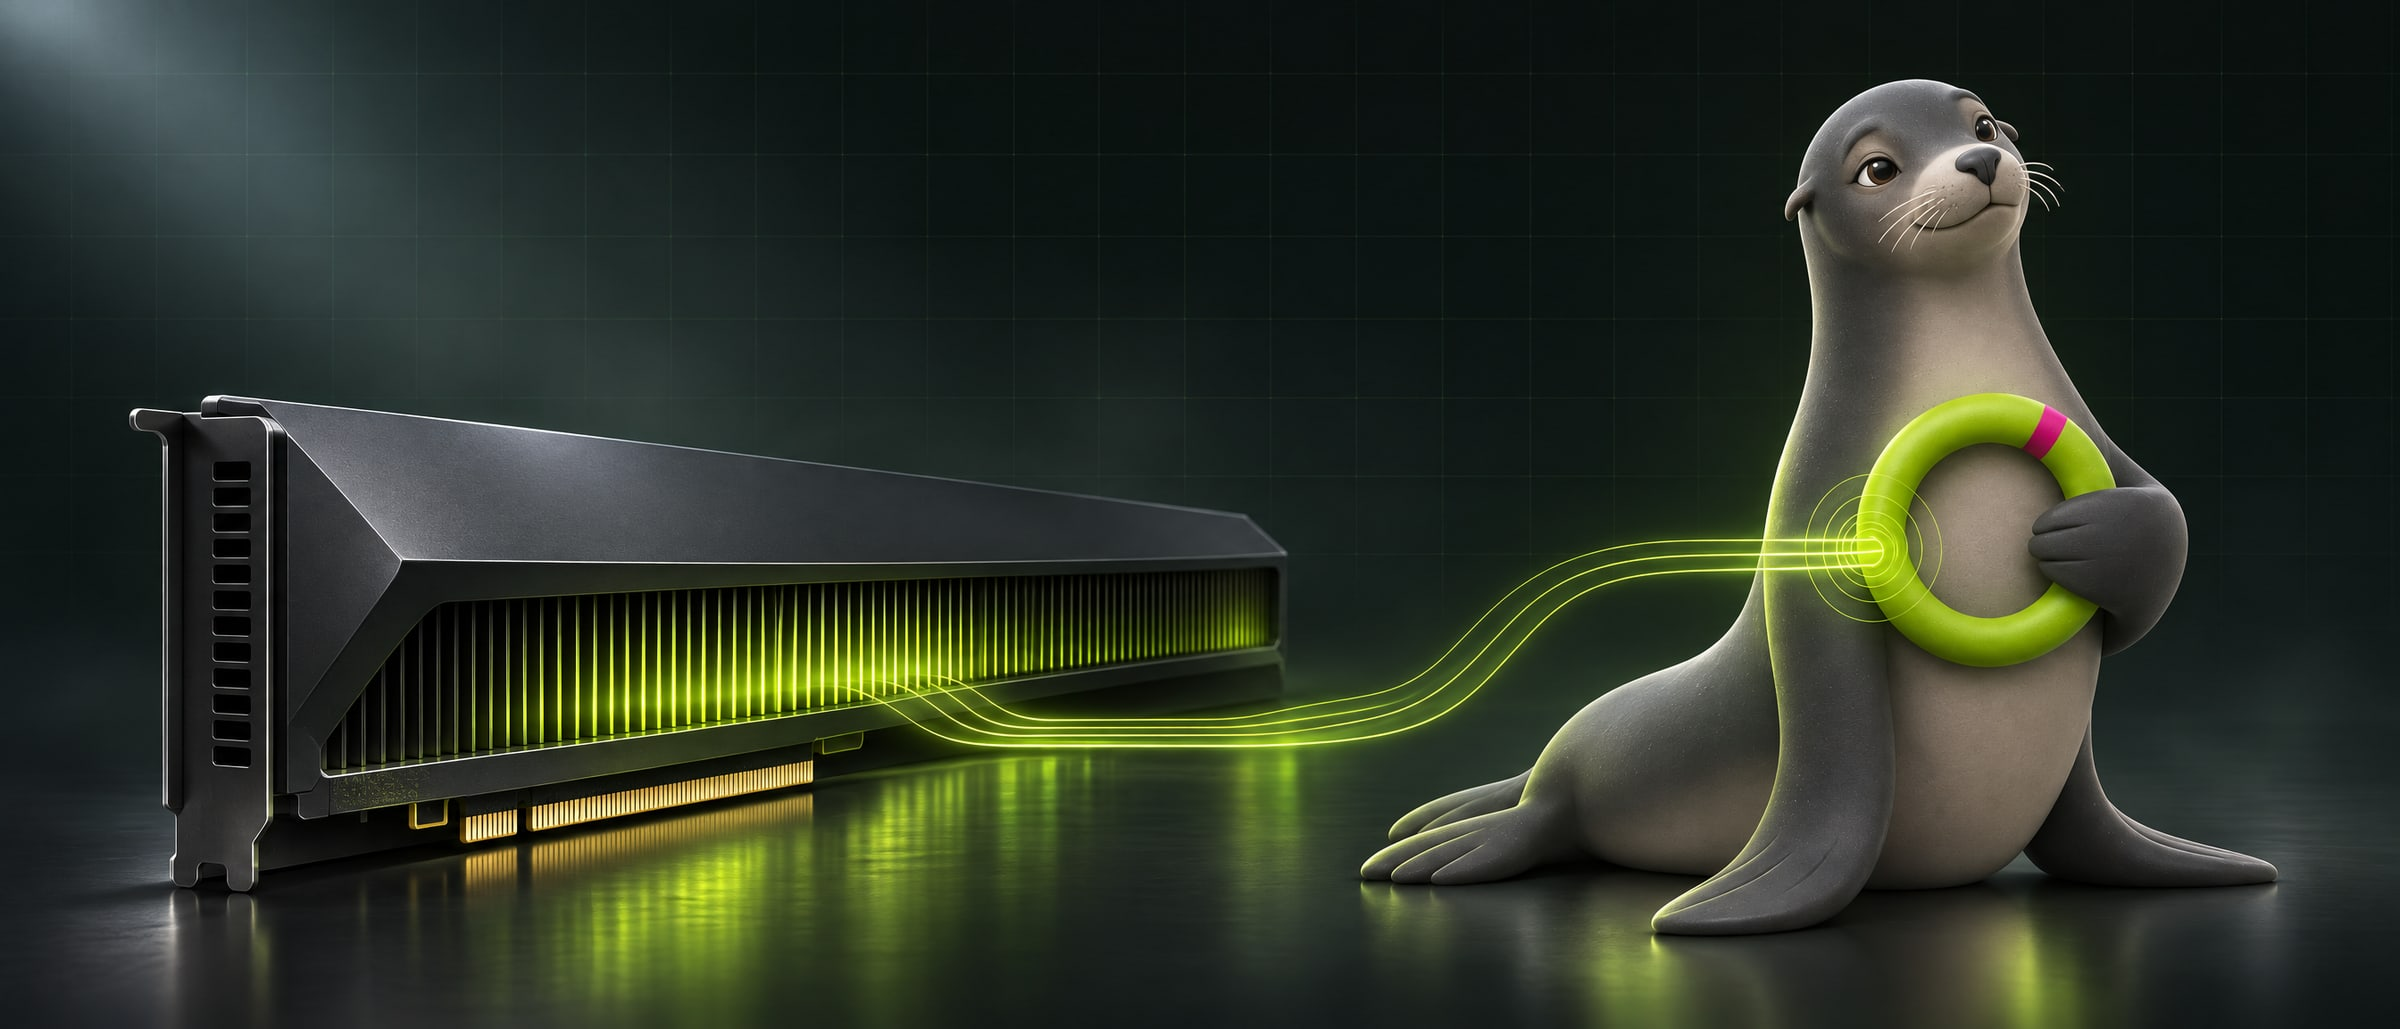
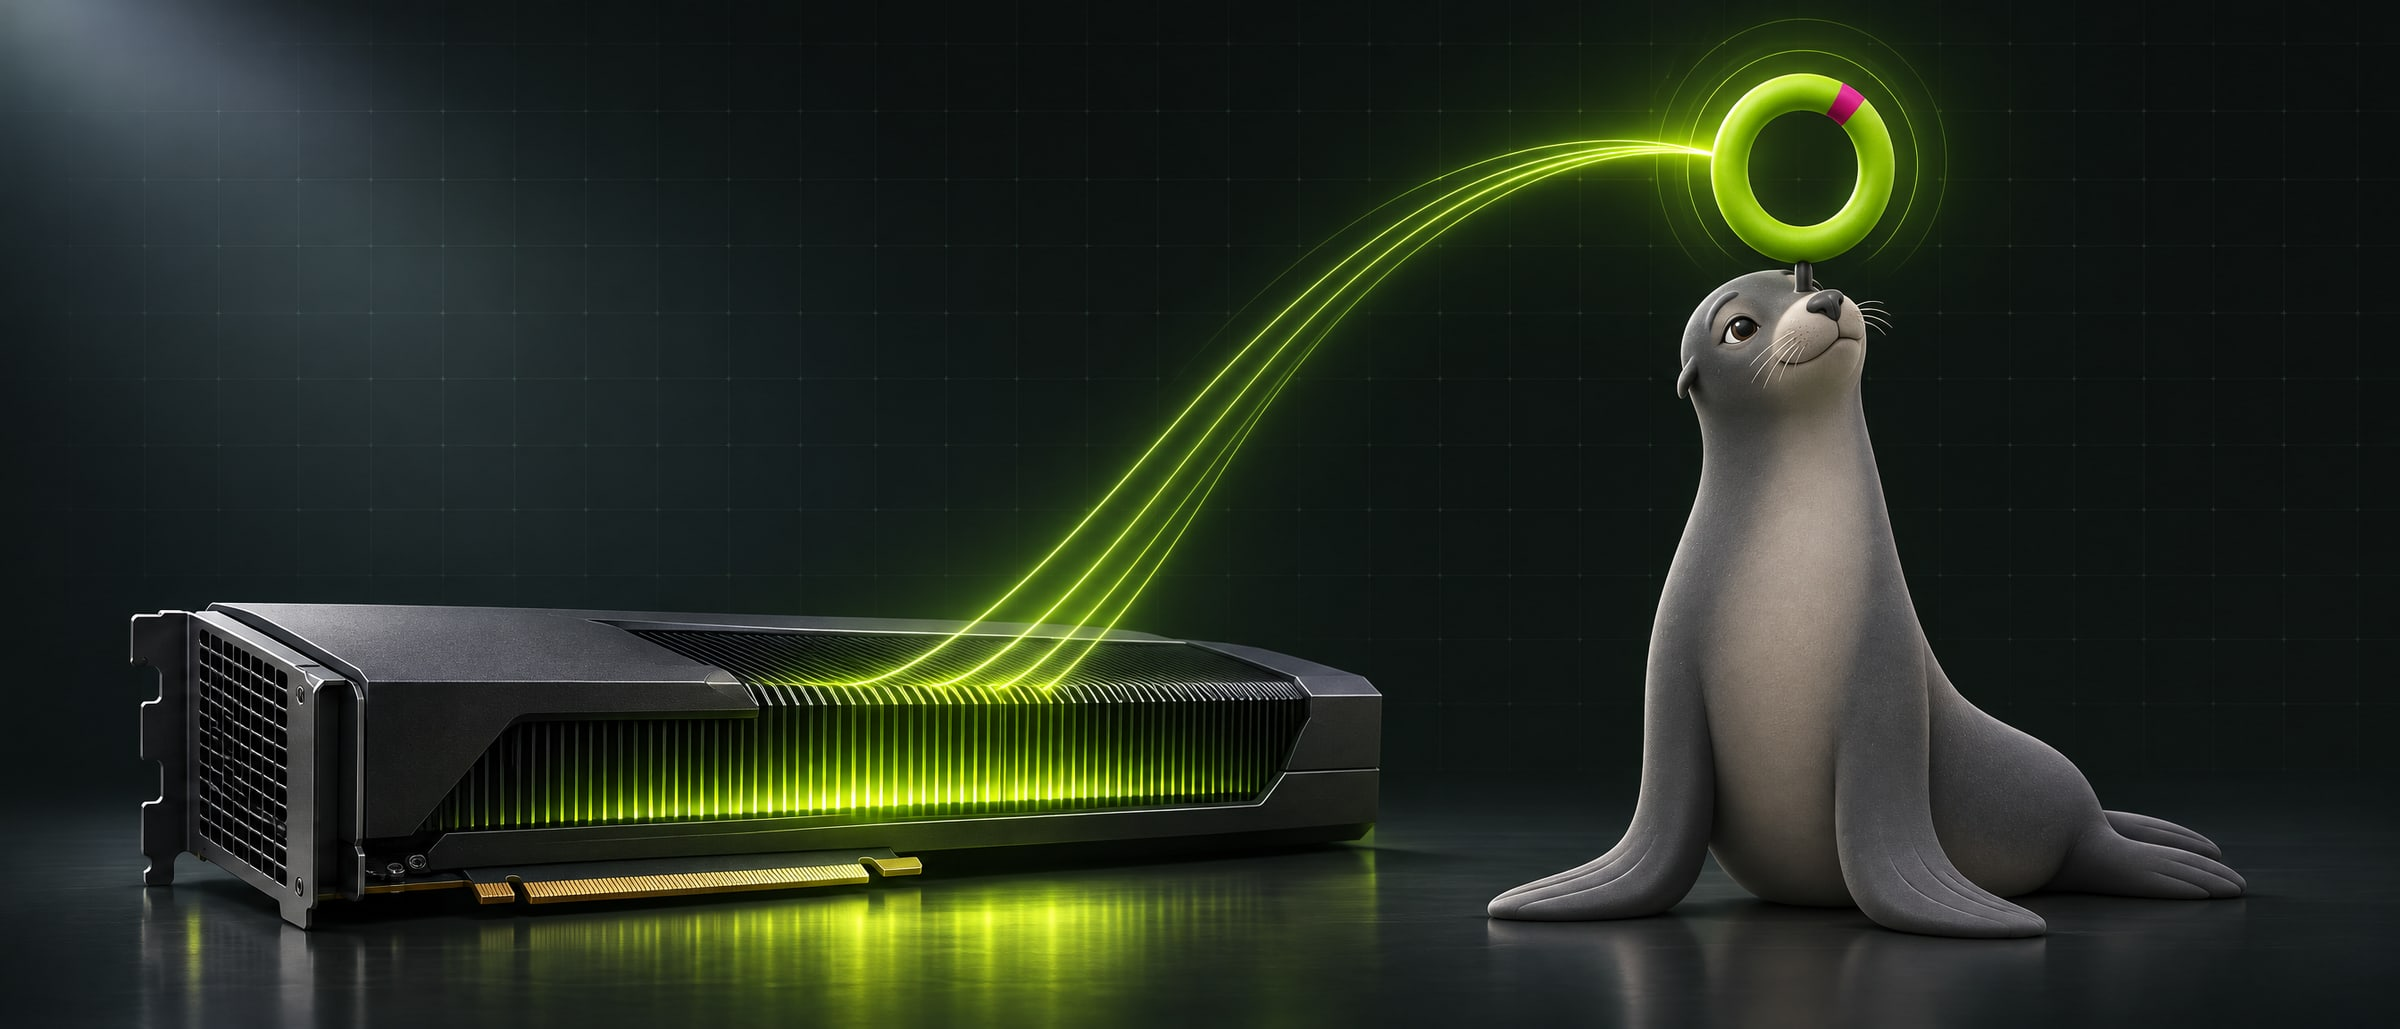
Redraw README art with the ring balanced on Ringo's nose
The hero and the voice, NVIDIA and safety banners now show the classic
performing pose: both front flippers on the floor and the ring on the
nose, which fixes the extra-flipper look of the earlier renders.

diff --git a/docs/readme/src/hero.html b/docs/readme/src/hero.html
@@ -9,19 +9,19 @@
     background: #0c1110 url('../art/hero.jpg') right 0 center / auto 100% no-repeat;
     border-radius: 24px;
   }
-  /* Soften the far-left noisy waveform so the title owns that space. */
+  /* Keep the title area calm; the noisy-to-calm waveform runs above it. */
   #frame::before {
     content: ''; position: absolute; inset: 0;
-    background: linear-gradient(90deg, rgba(12,17,16,0.78) 0%, rgba(12,17,16,0.4) 30%, rgba(12,17,16,0) 52%);
+    background: linear-gradient(180deg, rgba(12,17,16,0) 0%, rgba(12,17,16,0) 28%, rgba(12,17,16,0.55) 45%, rgba(12,17,16,0) 100%), linear-gradient(90deg, rgba(12,17,16,0.5) 0%, rgba(12,17,16,0) 55%);
   }
-  .copy { position: absolute; left: 72px; top: 46px; width: 640px; }
+  .copy { position: absolute; left: 72px; top: 158px; width: 640px; }
   .eyebrow { color: var(--lime); display: flex; align-items: center; gap: 12px; }
   .eyebrow i { width: 28px; height: 2px; background: var(--lime); display: block; }
   .word { display: flex; align-items: center; gap: 18px; margin-top: 18px; }
   .word span { font-size: 76px; font-weight: 800; letter-spacing: -0.04em; line-height: 1; }
   .tag { margin-top: 14px; font-size: 24px; line-height: 1.35; color: #dfe3dc; font-weight: 500; letter-spacing: -0.01em; }
   .tag b { color: var(--paper); font-weight: 800; }
-  .chips { position: absolute; left: 72px; bottom: 64px; display: flex; flex-wrap: wrap; gap: 10px; width: 760px; }
+  .chips { position: absolute; left: 72px; bottom: 44px; display: flex; flex-wrap: wrap; gap: 10px; width: 760px; }
   .chip {
     font-family: var(--mono); font-size: 13.5px; letter-spacing: 0.02em;
     padding: 8px 12px; border-radius: 999px;

diff --git a/README.md b/README.md
@@ -1,6 +1,6 @@
 <div align="center">
 
-<img src="docs/readme/hero.webp" width="100%" alt="FirstRing: Ringo the sea lion holds a lime ring; a noisy waveform from the left becomes a calm line as it reaches the ring. Stack: Rust, Axum, Tokio, SQLite; Photon SIP to Twilio ConversationRelay; NVIDIA Nemotron 3.5 Lightning 30B-A3B; Brev H100 with vLLM and NVFP4; Angular console.">
+<img src="docs/readme/hero.webp" width="100%" alt="FirstRing: Ringo the sea lion balances a lime ring on its nose; a noisy waveform from the left becomes a calm line as it reaches the ring. Stack: Rust, Axum, Tokio, SQLite; Photon SIP to Twilio ConversationRelay; NVIDIA Nemotron 3.5 Lightning 30B-A3B; Brev H100 with vLLM and NVFP4; Angular console.">
 
 <br>
 
@@ -179,7 +179,7 @@ sequenceDiagram
 
 <br>
 
-<img src="docs/readme/banner-voice.webp" width="100%" alt="02 Voice pipeline: Ringo wearing a headset, listening, while sound waves pass through the lime ring.">
+<img src="docs/readme/banner-voice.webp" width="100%" alt="02 Voice pipeline: Ringo wearing a headset balances the lime ring on its nose while sound waves flow into it.">
 
 ## 02 · Voice pipeline
 
@@ -304,7 +304,7 @@ Robot calls run under a durable allowance (**26 total, 19 used**, one at a time,
 
 <br>
 
-<img src="docs/readme/banner-nvidia.webp" width="100%" alt="03 NVIDIA inference: Ringo next to a GPU accelerator card whose lime glow flows into the ring.">
+<img src="docs/readme/banner-nvidia.webp" width="100%" alt="03 NVIDIA inference: Ringo balances the lime ring on its nose while light from a GPU accelerator card arcs into it.">
 
 ## 03 · NVIDIA Nemotron on Brev
 
@@ -452,7 +452,7 @@ A phone conversation feels broken after roughly two seconds of silence, and ever
 
 <br>
 
-<img src="docs/readme/banner-safety.webp" width="100%" alt="05 Policy and safety: a jagged magenta waveform stops at Ringo's ring; a calm lime line continues on the other side.">
+<img src="docs/readme/banner-safety.webp" width="100%" alt="05 Policy and safety: a jagged magenta waveform stops at the ring Ringo balances on its nose; a calm lime line continues on the other side.">
 
 ## 05 · Policy and safety
 
